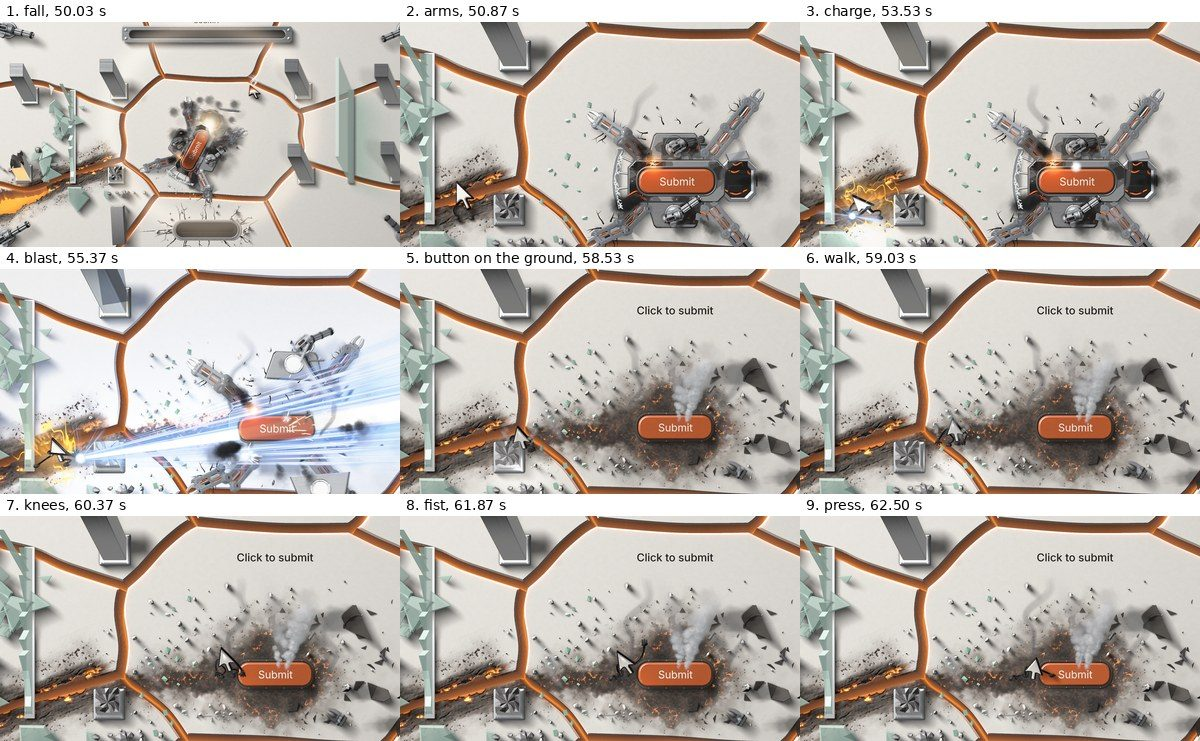
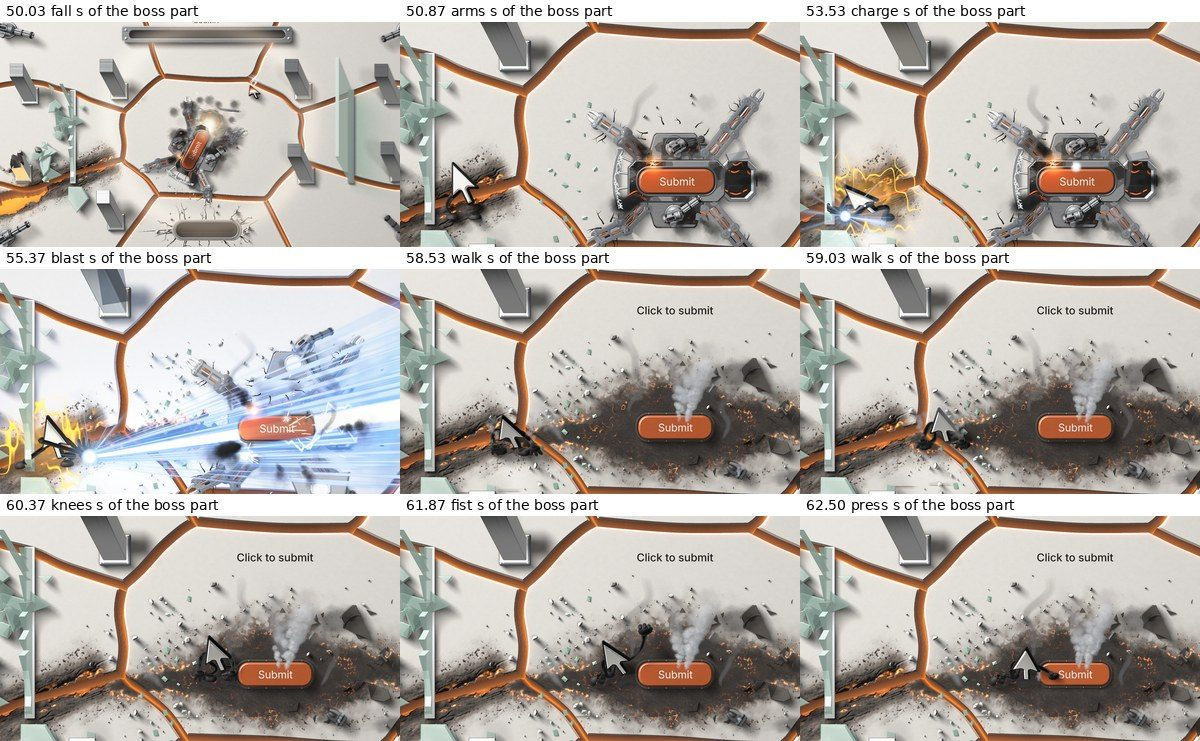
Status 182 and log 260: merge 62, the boss page as the site runs it, rulings to the boss helper

diff --git a/kit/PROGRESS.md b/kit/PROGRESS.md
@@ -26,22 +26,22 @@ The Builder's memory. Read it at the start of every task and after every compact
 
 The pictures of the newest status, with their captions and the time. Files are in `out/stills/status/`.
 
-Status 188, 2026-11-28T02:59Z, Phase 5.
+Status 189, 2026-11-28T03:28Z, Phase 5.
 
-1. `out/stills/status/01-the-real-boss-page-from-the-fall-to-the-press-wi.jpg`: One sheet, 1200 by 741, nine numbered film frames of the real boss page with the approved look on, from the boss helper. 1, fall, 50.03 s: the wide arena of pale slabs with glowing orange seams, the health bar alone at the top, the beaten boss in the middle, pillars, a glass pane at the left and the cannon's scar. 2, arms, 50.87 s: closer; a small white arrow stands at the left on a dark burnt streak beside a metal grate block, the beaten boss with its four arms and the orange Submit button at the right. 3, charge, 53.53 s: gold light and sparks round the arrow. 4, blast, 55.37 s: a pale blue beam with a white core runs level from the arrow across the frame through the boss, white flash, parts flying. 5, button on the ground, 58.53 s: the Submit button alone on black burnt ground with embers, grey smoke and scattered shards, the words Click to submit above. 6, walk, 59.03 s: the arrow at the left by the grate block. 7, knees, 60.37 s: the arrow left of the button. 8, fist, 61.87 s: the arrow by the button with one thin arm up. 9, press, 62.50 s: the arrow on the button's left end.
-2. `out/stills/status/02-the-power-up-on-the-real-boss-page-four-film-fra.jpg`: One strip, 1200 by 322, four film frames at 35.40, 36.20, 36.45 and 36.80 s of the boss part, from the boss helper. Pale ceramic ground with an orange seam curving down the right side, a square metal pillar top in front at the bottom and another at the top. First frame: the white arrow stands on two thin black legs behind the pillar's top. Second and third: its two black arms are out to the sides with gloved hands, a fan of pale gold flame tongues behind it and a gold ring on the ground. Fourth: the arms straight out to both sides, the flame taller. The pillar's top hides the arrow's feet in all four.
-3. `out/stills/status/03-careers-perk-cards-before-above-now-in-the-middl.jpg`: One sheet, 1200 by 1149, three bands, each with the perk cards Unlimited PTO, Competitive Salary and Flexible Hours: white cards with a pale orange icon tile at the top left. Top band, before: small bold titles and small grey print. Middle band, now: larger bold titles and larger grey small print, in three lines on the first and third card. Bottom band, your picture: titles of the same size in a narrower bolder typeface, black small print that starts with a star, and Choose your own schedule on one line.
-4. `out/stills/status/04-the-sound-bar-with-its-accept-button-at-the-foot.jpg`: One sheet, 1200 by 675, three bands of the foot of the careers page at 1920 wide, each under the row of five awards with laurel wreaths. Top band: a white strip across the page; at its left a round sound control and the link Watch the film instead, then the words This application uses sound to enhance your candidate experience, and at the right an orange Accept button. Middle band: the strip sliding down out of view, a grey caption box with the word Ahh in the middle and the black-edged white arrow at the right. Bottom band: the strip gone, the ticker of joke perks back along the foot, a caption box with the words to pay their rent, the sound control and film link still at the left.
+1. `out/stills/status/01-the-real-boss-page-from-the-fall-to-the-press-wi.jpg`: One sheet, 1200 by 741, nine film frames of the real boss page with the approved look on, each headed with its second of the boss part. 50.03 fall: the wide arena of pale slabs with glowing orange seams, the health bar alone at the top, the beaten boss in the middle. 50.87 arms: closer; a white arrow, larger than in the last status, stands at the left on a dark burnt streak, the beaten boss with its four arms and the orange Submit button at the right. 53.53 charge: gold crackle round the arrow and a white ball at its hands. 55.37 blast: a pale blue beam with a white core from the arrow's hands through the boss, a white flash, parts flying. 58.53 and 59.03 walk: the Submit button alone on black burnt ground with embers and grey smoke, the words Click to submit above, the arrow walking in from the left. 60.37 knees: the arrow tilted, left of the button. 61.87 fist: a thin black arm with a fist raised above the arrow. 62.50 press: the arrow upright with its glove on the button's left end.
+2. `out/stills/status/02-the-power-up-on-the-real-boss-page-with-both-fis.jpg`: One sheet, 1440 by 716, eight film frames from 35.00 to 37.90 s of the boss part. Pale ceramic ground with orange seams, a glass pane at the left, a pillar top at the upper right. 35.00: the white arrow stands on two black legs with round shoes inside a gold ring on the ground. 35.40: it crouches with its hands down. 35.90 and 36.40: both black gloved fists raised beside its head with bent elbows, small gold flames along the ring. 36.90: the arms flung open to both sides, the flames taller. 37.20: it sinks down, the glow fading. 37.50: the arrow on its legs with no arms and no glow. 37.90: the small plain arrow with a red burn mark and a wisp of smoke.
+3. `out/stills/status/03-the-boss-page-on-the-live-build-under-a-keen-vis.jpg`: One sheet, 1200 by 741, nine frames of a visit on the live build, each headed with its second of the visit. 5.50 boss forming: the wide arena, the full health bar at the top, the boss in the middle with the Submit button, four guns in the corners, pillars, glass panes left and right, a black slot with cracks at the bottom middle. 16.00 power-up: a gold glow at the lower left with the figure half hidden behind a pillar. 30.00 fight: the bar half empty, the boss turned, a burnt streak with fire at the upper right, the arrow at the top. 53.70 the fall: the view closing in on the beaten boss, burnt streaks across the ground. 54.40 charge: the arrow large on its legs at the left, the boss at the right. 54.75 blast: a thin orange ray from the arrow to the button. 58.30 walk: the arrow on the black burnt ground left of the button, Click to submit above. 60.90 fist: a thin arm with a fist up. 61.60 press: the glove on the Submit button.
+4. `out/stills/status/04-the-figure-at-real-size-from-the-charge-to-the-p.jpg`: One strip, 2400 by 424, five film frames at film pixels 1 to 1 with red ticks every 50 px down the left of each. 53.53 s: the white arrow leaning forward with black hose arms and legs, a blue-white ball of light at its hands and yellow lightning lines, a glass pane at its left. 59.03 s: the arrow walking on black legs with round shoes over burnt ground and an orange seam. 60.37 s: the arrow on its knees, legs folded with the shoes behind, on black cracked ground with embers, the orange button's end at the right. 61.87 s: the same with a black arm going up out of the top of the frame. 62.50 s: the arrow upright, its fist on the button's end.
 
 ## Clock
 
 Copied from the last tick of `npm run clock`.
 
 ```
-clock: phase 5, tick 357 at 2026-11-28T02:59:13Z, allowance: continuation 3
-time used in this phase: 9.10 h of its box of 12.00 h, of which 2.00 h is the reserve
-time used under the allowance in force: 9.10 h of 12.00 h allowed
-time used: 69.16 of 72.00 hours before the review
+clock: phase 5, tick 358 at 2026-11-28T03:28:32Z, allowance: continuation 3
+time used in this phase: 9.59 h of its box of 12.00 h, of which 2.00 h is the reserve
+time used under the allowance in force: 9.59 h of 12.00 h allowed
+time used: 69.65 of 72.00 hours before the review
 extra rounds: yes
 half point: reached
 box end: reached
@@ -1825,6 +1825,10 @@ One line each: the date, the decision, the reason, and the config key if one was
 - 2026-11-28T03:00Z, the arena's pillar. `pillar.3` moved to (563, 925) by the arena helper so the walk to Submit is clear. Accepted as a known difference from ARENA 6, because the approved picture of the button left behind has no pillar there; shown beside the picture in a status; one line to Partner (sent 03:00Z).
 - 2026-11-28T03:00Z, the power-up pose on the real page. The boss helper's frames show the arms out to the sides and the fists up for 0.25 s only. Change note 004 item 1 names the pose sheet's Powering up figure, fists raised. Ruling: inside the same power-up (34.68 to 37.83 s of the boss part) the fists are up by about 36.3 s and held about 1.0 s; the figure is down before the turret locks; it does not stand into the fight.
 - 2026-11-28T03:00Z, merges. 58: agent/b-arena c288cf6d and the video mend 026d85ad. 59: agent/b-careers2 223c5235 as 51ea257d (retime, cut, tsc EXIT 0; 5 test files 49 of 49). 60: agent/b-shell2 73692497 as da574eeb (retime, cut, tsc EXIT 0; 7 test files, 117 of 118 with a stale dist, 118 of 118 once dist was built again: `fix-touch` reads dist). 61: agent/b-boss 0981082c as 06830207 (retime, cut, tsc EXIT 0; 6 test files 114 of 114). Pushed to agent/merge55 with Status 181 at 31d7edbc.
+- 2026-11-28T03:29Z, after a compaction the change notes 002, 003 with its updates 1 to 7 and 004 were read again in full at 03:26Z, before any further ruling.
+- 2026-11-28T03:29Z, merge 62: `origin/agent/b-boss` at 9d14bc77 merged into `merge55` as 81cf7955 and pushed. MEASURED here: merge, retime, cut and the type check EXIT 0; vitest on the boss page's files 6 files, 122 of 122, EXIT 0 (log `wja-scratch/s181/merge-boss-2.log`). An earlier try that merged `agent/b-finish` alone failed one test of `tests/boss.test.ts` ("ends the film with the finishing blast") because the boss retune was missing; it was reset and never committed.
+- 2026-11-28T03:29Z, rulings to the boss helper on its 03:24Z report. (1) At the live power-up the page steps the figure to the nearest spot clear of pillars, panes and turrets while it stands up, and the figure is not drawn over pillars, because the pillars have height and a figure drawn over them would break the depth. (2) The view closes in on the figure for the power-up in the film and on the site: in from 34.68 s, held through the pose, back at the full view by 37.60 s before the lock at 37.83 s, the figure about 200 px as on the walk, no mark moved; reason: update 2 of note 003 reads the rise as the biggest moment of the film before the fight, and the figure at about 125 px does not carry it. (3) A thin rim of ember light on legs, arms and gloves on the burnt ground, the arrow's body kept white and drawn above the smoke. (4) The firing spot or the view moved so that the figure and its flame are clear of the left edge by 80 px and of the glass pane. (5) The burn mark on the plain arrow at 37.90 s to be traced. (6) The cut to carry the cue of boss-heal as the site plays it. (7) No click fires anything while the page holds the figure in the power-up. (8) The whole suite, the bots and the same-picture-twice check are run here on the merged tree.
+- 2026-11-28T03:29Z, the visitor's quick shot, which shows as a thin orange ray in the boss helper's picture L1 at 54.75 s of the visit, went to the finish helper to check whether that is the whole shot or its first frame; the small shot must be the blue-white beam made smaller.
 
 ## Notes from Brandon
 
@@ -2834,6 +2838,9 @@ Each with its unit, its severity, the still, the critic's words, what was tried 
 - 2026-11-28T02:01Z, open: the live site's pinball video is a stand-in in which one frame in 24 is rendered; the real one is to be rendered at the final setting, by render helpers, with the whole-film preview's frames.
 - 2026-11-28T02:18Z, from change note 004, open until done: item 9, the nine approved on-screen words still live in `content/copy-drafts.json`; moving them into `content/copy.json` changes the locked file's checksum in `content/MANIFEST.sha256` and is done in one commit of its own, after the helpers' branches are in. Item 8's question, if the steps' titles touch at 22 to 24 px: a picture to Partner, no shrinking without word.
 - 2026-11-28T03:00Z, from the pictures of 02:57Z. The finish figure is about 100 px tall on 1920 on the real page (scale 1.5 still to come); the knees and the fist do not read at that size. The pillar hides the feet at the power-up in the boss helper's frames (its branch had no arena move). Careers: no star, grey small print, the typeface, cards 354 px against 327 (the fit, mailed). The sound capsule and the film link lie inside the sound bar's band. Embers too bright at left and far right; cannon scar rim not done. The pinball video is the stand-in. With the look on, flatten and boss-heal come 0.61 s later in the film; no cue checked against it. The live site with the look on has not been looked at. No test pins that the plain arrow is hidden while the figure is up. The whole suite has not run on the merged tree.
+- 2026-11-28T03:29Z, STATED by the shell helper at 03:27Z: the whole suite on `merge55` at 1daa9b64 has 53 failed, 2,226 passed and 30 skipped of 2,309; on its branch 54 failed, the one more being its own test, since changed. The 53 are not sorted yet.
+- 2026-11-28T03:29Z, the voice branch `agent/b-voice` stands at 43ed4bf9 (STATED by the shell helper: tsc EXIT 0, `tests/b-voice.test.ts` 18 of 18, 152 of 152 over 10 files, build EXIT 0). Not merged. The kept takes must be packed here, because `audio/kept/*.wav` is ignored by git.
+- 2026-11-28T03:29Z, the finish helper's third task stands at `agent/b-finish` 4dde340f. STATED by it: the power-up pose with the fists at shoulder height beside the body by a new pose field `tuck`, the hold of 1.1 s by a new input `power: { at, until }`, the beam's core 13 px and glow 30 px half-width, a dark amber ground behind the figure at the charge. MEASURED by it: `tests/b-finish.test.ts` 20 of 20, tsc, determinism and bots EXIT 0. Differences left: the elbows rounder than the sheet's, the right fist touches the arrow's edge, the flames are straight; over the button the look's burst still covers it (`src/boss/look1/fx.ts` lines 546 to 566, STATED from reading). Not merged; its pictures are not viewed yet.
 
 ## Counts
 

diff --git a/out/stills/status/STATUS.md b/out/stills/status/STATUS.md
@@ -1,8 +1,8 @@
 # Status pictures
 
-Time: 2026-11-28T02:59Z. Phase 5, status 188.
+Time: 2026-11-28T03:28Z. Phase 5, status 189.
 
-1. `01-the-real-boss-page-from-the-fall-to-the-press-wi.jpg`: One sheet, 1200 by 741, nine numbered film frames of the real boss page with the approved look on, from the boss helper. 1, fall, 50.03 s: the wide arena of pale slabs with glowing orange seams, the health bar alone at the top, the beaten boss in the middle, pillars, a glass pane at the left and the cannon's scar. 2, arms, 50.87 s: closer; a small white arrow stands at the left on a dark burnt streak beside a metal grate block, the beaten boss with its four arms and the orange Submit button at the right. 3, charge, 53.53 s: gold light and sparks round the arrow. 4, blast, 55.37 s: a pale blue beam with a white core runs level from the arrow across the frame through the boss, white flash, parts flying. 5, button on the ground, 58.53 s: the Submit button alone on black burnt ground with embers, grey smoke and scattered shards, the words Click to submit above. 6, walk, 59.03 s: the arrow at the left by the grate block. 7, knees, 60.37 s: the arrow left of the button. 8, fist, 61.87 s: the arrow by the button with one thin arm up. 9, press, 62.50 s: the arrow on the button's left end.
-2. `02-the-power-up-on-the-real-boss-page-four-film-fra.jpg`: One strip, 1200 by 322, four film frames at 35.40, 36.20, 36.45 and 36.80 s of the boss part, from the boss helper. Pale ceramic ground with an orange seam curving down the right side, a square metal pillar top in front at the bottom and another at the top. First frame: the white arrow stands on two thin black legs behind the pillar's top. Second and third: its two black arms are out to the sides with gloved hands, a fan of pale gold flame tongues behind it and a gold ring on the ground. Fourth: the arms straight out to both sides, the flame taller. The pillar's top hides the arrow's feet in all four.
-3. `03-careers-perk-cards-before-above-now-in-the-middl.jpg`: One sheet, 1200 by 1149, three bands, each with the perk cards Unlimited PTO, Competitive Salary and Flexible Hours: white cards with a pale orange icon tile at the top left. Top band, before: small bold titles and small grey print. Middle band, now: larger bold titles and larger grey small print, in three lines on the first and third card. Bottom band, your picture: titles of the same size in a narrower bolder typeface, black small print that starts with a star, and Choose your own schedule on one line.
-4. `04-the-sound-bar-with-its-accept-button-at-the-foot.jpg`: One sheet, 1200 by 675, three bands of the foot of the careers page at 1920 wide, each under the row of five awards with laurel wreaths. Top band: a white strip across the page; at its left a round sound control and the link Watch the film instead, then the words This application uses sound to enhance your candidate experience, and at the right an orange Accept button. Middle band: the strip sliding down out of view, a grey caption box with the word Ahh in the middle and the black-edged white arrow at the right. Bottom band: the strip gone, the ticker of joke perks back along the foot, a caption box with the words to pay their rent, the sound control and film link still at the left.
+1. `01-the-real-boss-page-from-the-fall-to-the-press-wi.jpg`: One sheet, 1200 by 741, nine film frames of the real boss page with the approved look on, each headed with its second of the boss part. 50.03 fall: the wide arena of pale slabs with glowing orange seams, the health bar alone at the top, the beaten boss in the middle. 50.87 arms: closer; a white arrow, larger than in the last status, stands at the left on a dark burnt streak, the beaten boss with its four arms and the orange Submit button at the right. 53.53 charge: gold crackle round the arrow and a white ball at its hands. 55.37 blast: a pale blue beam with a white core from the arrow's hands through the boss, a white flash, parts flying. 58.53 and 59.03 walk: the Submit button alone on black burnt ground with embers and grey smoke, the words Click to submit above, the arrow walking in from the left. 60.37 knees: the arrow tilted, left of the button. 61.87 fist: a thin black arm with a fist raised above the arrow. 62.50 press: the arrow upright with its glove on the button's left end.
+2. `02-the-power-up-on-the-real-boss-page-with-both-fis.jpg`: One sheet, 1440 by 716, eight film frames from 35.00 to 37.90 s of the boss part. Pale ceramic ground with orange seams, a glass pane at the left, a pillar top at the upper right. 35.00: the white arrow stands on two black legs with round shoes inside a gold ring on the ground. 35.40: it crouches with its hands down. 35.90 and 36.40: both black gloved fists raised beside its head with bent elbows, small gold flames along the ring. 36.90: the arms flung open to both sides, the flames taller. 37.20: it sinks down, the glow fading. 37.50: the arrow on its legs with no arms and no glow. 37.90: the small plain arrow with a red burn mark and a wisp of smoke.
+3. `03-the-boss-page-on-the-live-build-under-a-keen-vis.jpg`: One sheet, 1200 by 741, nine frames of a visit on the live build, each headed with its second of the visit. 5.50 boss forming: the wide arena, the full health bar at the top, the boss in the middle with the Submit button, four guns in the corners, pillars, glass panes left and right, a black slot with cracks at the bottom middle. 16.00 power-up: a gold glow at the lower left with the figure half hidden behind a pillar. 30.00 fight: the bar half empty, the boss turned, a burnt streak with fire at the upper right, the arrow at the top. 53.70 the fall: the view closing in on the beaten boss, burnt streaks across the ground. 54.40 charge: the arrow large on its legs at the left, the boss at the right. 54.75 blast: a thin orange ray from the arrow to the button. 58.30 walk: the arrow on the black burnt ground left of the button, Click to submit above. 60.90 fist: a thin arm with a fist up. 61.60 press: the glove on the Submit button.
+4. `04-the-figure-at-real-size-from-the-charge-to-the-p.jpg`: One strip, 2400 by 424, five film frames at film pixels 1 to 1 with red ticks every 50 px down the left of each. 53.53 s: the white arrow leaning forward with black hose arms and legs, a blue-white ball of light at its hands and yellow lightning lines, a glass pane at its left. 59.03 s: the arrow walking on black legs with round shoes over burnt ground and an orange seam. 60.37 s: the arrow on its knees, legs folded with the shoes behind, on black cracked ground with embers, the orange button's end at the right. 61.87 s: the same with a black arm going up out of the top of the frame. 62.50 s: the arrow upright, its fist on the button's end.
